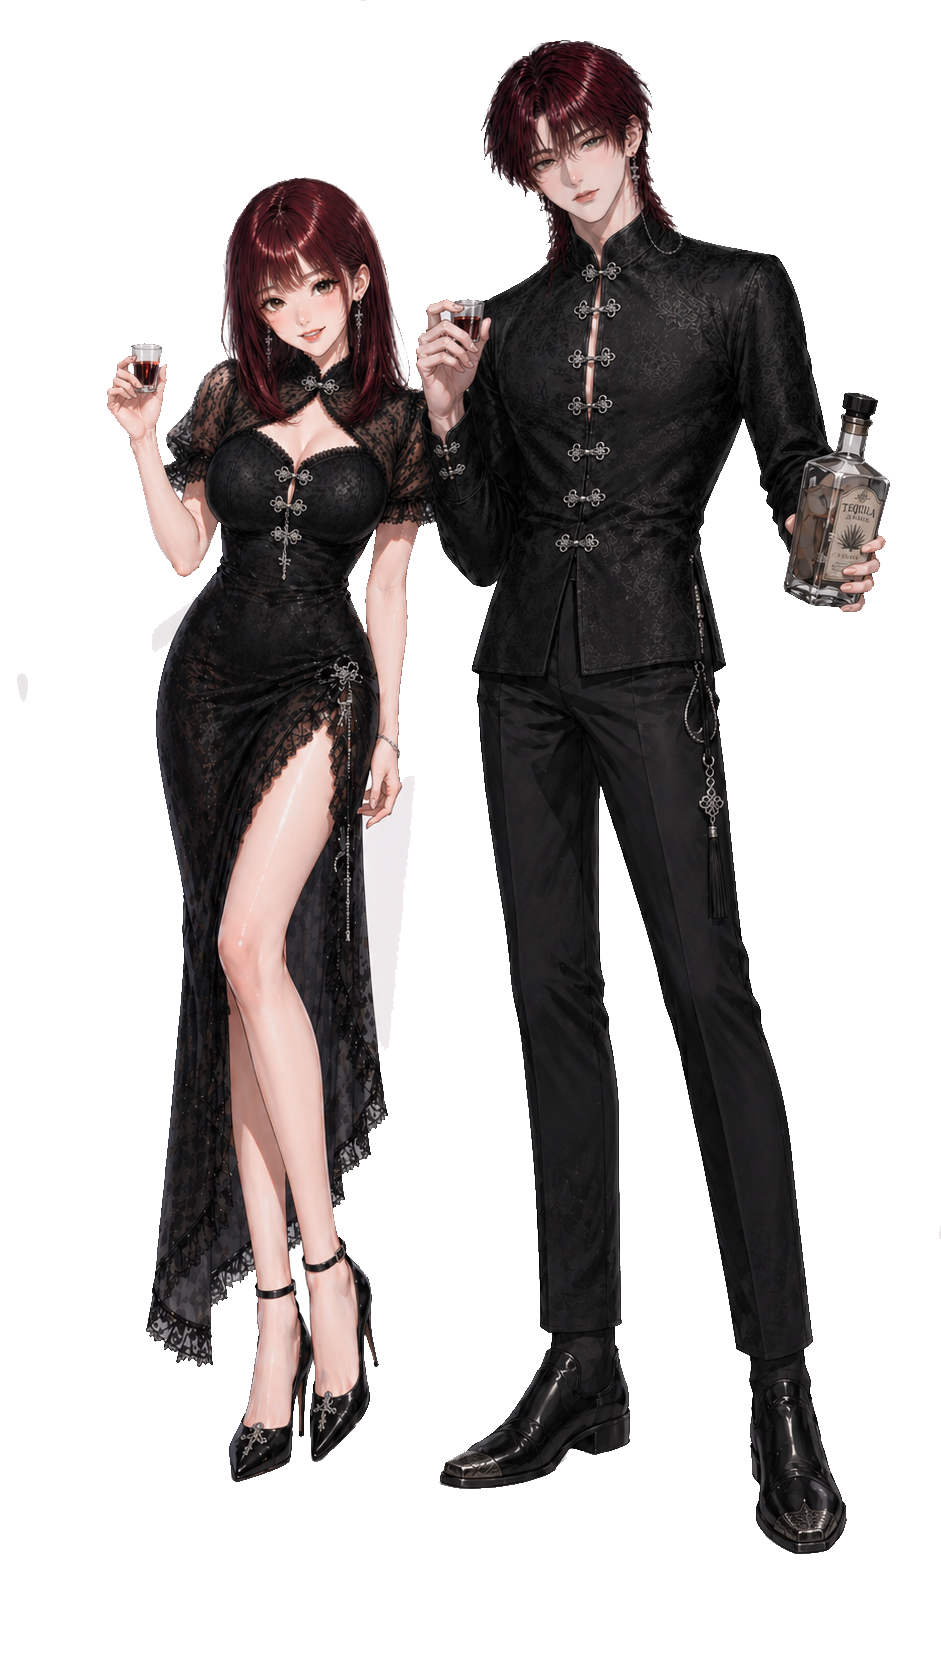
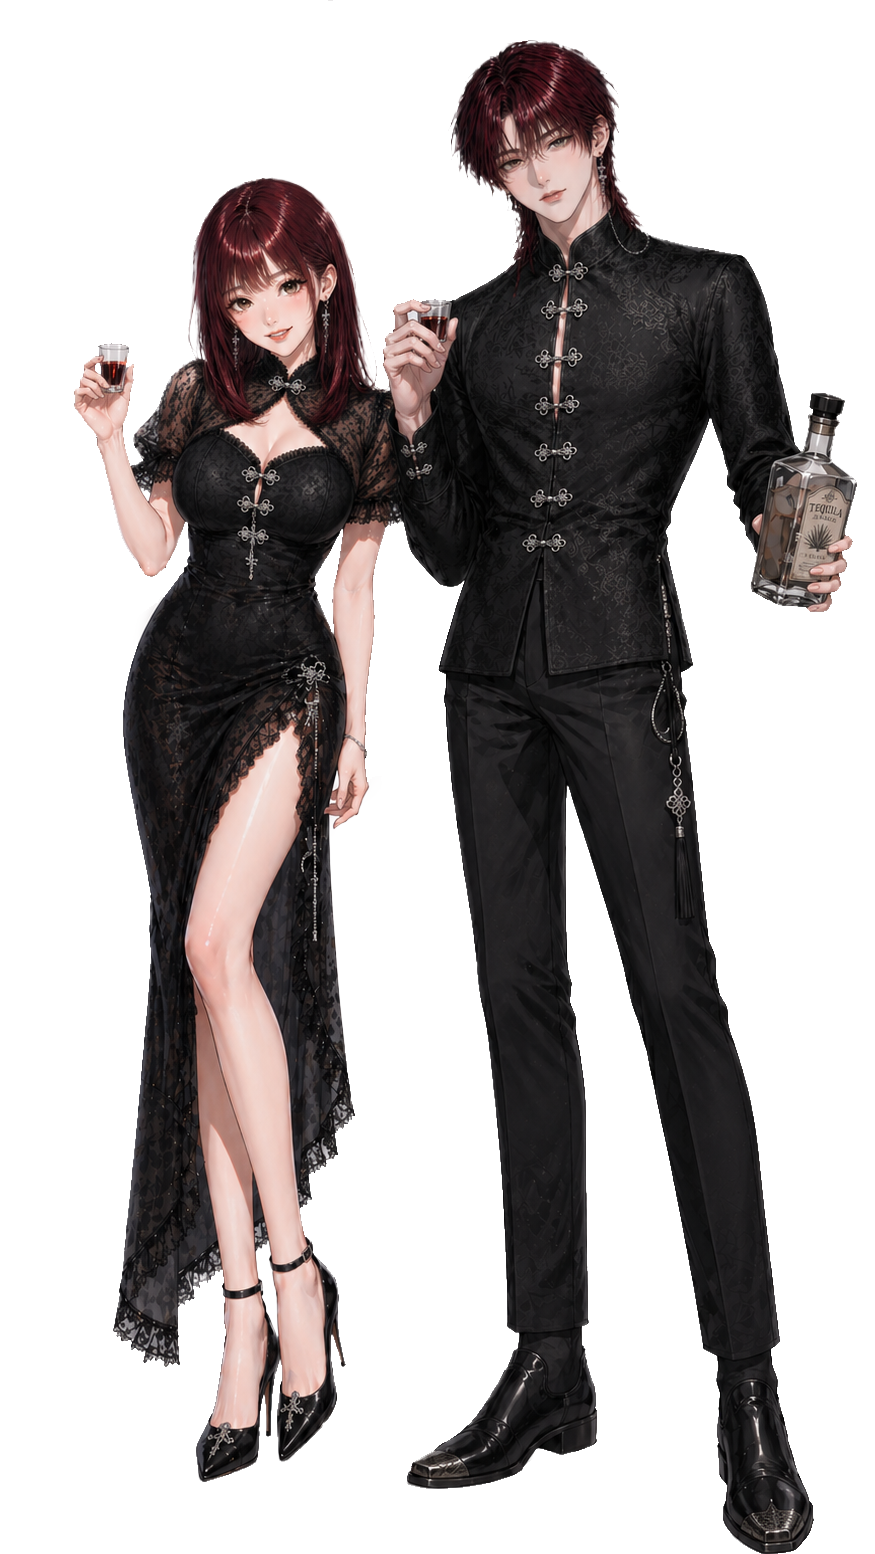
Update party mode guide and main art

diff --git a/party-mode.html b/party-mode.html
@@ -63,32 +63,33 @@
       <div class="help-section-list">
         <section class="help-section">
           <h3>対戦モード</h3>
-          <p>VS CPU: 1人で遊ぶ。ローカル対人: スマホ1台を回して 2〜4人で遊ぶ。ターンが変わるたびに「次の人に渡す」画面が出るので、次の人に端末を渡してから「めくる」を押してください。</p>
+          <p>VS CPU: 1人で遊ぶ。ローカル対人: スマホ1台を回して 2〜4人で遊ぶ。ターンが変わるたびに「次の人に渡す」画面が出るので、端末を次の人に渡してから「めくる」を押してください。</p>
         </section>
         <section class="help-section">
           <h3>勝利条件</h3>
-          <p>最後に酔いカウンターが一番少ないプレイヤーが勝ち。同点なら引き分け。</p>
+          <p><b>通常モード:</b> 全員で2周プレイ。一番酔いが少ないプレイヤーの勝ち。同点なら引き分け。<br><b>脱落モード（ローカル対人）:</b> テキーラを設定HP分飲んだら脱落。最後まで生き残ったプレイヤーの勝ち。</p>
         </section>
         <section class="help-section">
           <h3>1ターンの流れ</h3>
-          <p>手札を使う、山札を引く、さらに手札を使う、ターン終了。山札を引くまでは終了できない。</p>
+          <p>手札を使う → 山札を引く → さらに手札を使う → ターン終了。山札を引くまではターン終了できない。</p>
         </section>
         <section class="help-section">
           <h3>危険な山札</h3>
-          <p>テキーラは酔い+1。全員強制テキーラ乾杯は全員が危険。飲みません宣言だけが命綱。</p>
+          <p>テキーラは酔い+1。全員集合！乾杯！は全員が1枚引く。全員強制テキーラ乾杯は全員酔い+1。後者2枚はローカル対人専用で、VS CPUでは出ない。</p>
         </section>
         <section class="help-section">
           <h3>手札カード</h3>
-          <p>相手に引かせる、山札を見る、順番を変える。とりあえず一杯は使った時点でターン終了。</p>
+          <p>相手に引かせる、山札を見る、順番を変える。とりあえず一杯は使った時点でターン終了。帰宅方向逆・スキップは2人プレイ時には山札に含まれない。</p>
         </section>
         <section class="help-section">
           <h3>特殊ルール</h3>
           <ul class="help-rule-list">
             <li>回避（dodge）スタックは合算して最大+3。次の山札がテキーラなら被弾者に乗る。セーフ・乾杯カードが出たらスタックは消える。飲みません宣言でテキーラを防いだ場合は持ち越し。</li>
             <li>飲みません宣言は全員強制テキーラ乾杯でも個人単位で発動する。</li>
-            <li>倍プッシュ中に全員強制テキーラ乾杯が出ると、被弾する全員が+2を受ける。</li>
+            <li>倍プッシュ中に全員強制テキーラ乾杯が出ると、被弾する全員が+2を受ける（dodgeスタックは最初の被弾者のみに適用）。</li>
             <li>「全員集合！乾杯！」の中でさらに乾杯カードが出た場合はセーフ扱い。</li>
             <li>「とりあえず一杯」は使用時点の次の人が対象。その後 reverse しても変わらない。</li>
+            <li>脱落モード（ローカル対人）: テキーラを設定HP分受けたら即脱落。残り1人になった時点でゲーム終了。デッキは周回制限なし。</li>
           </ul>
         </section>
       </div>
